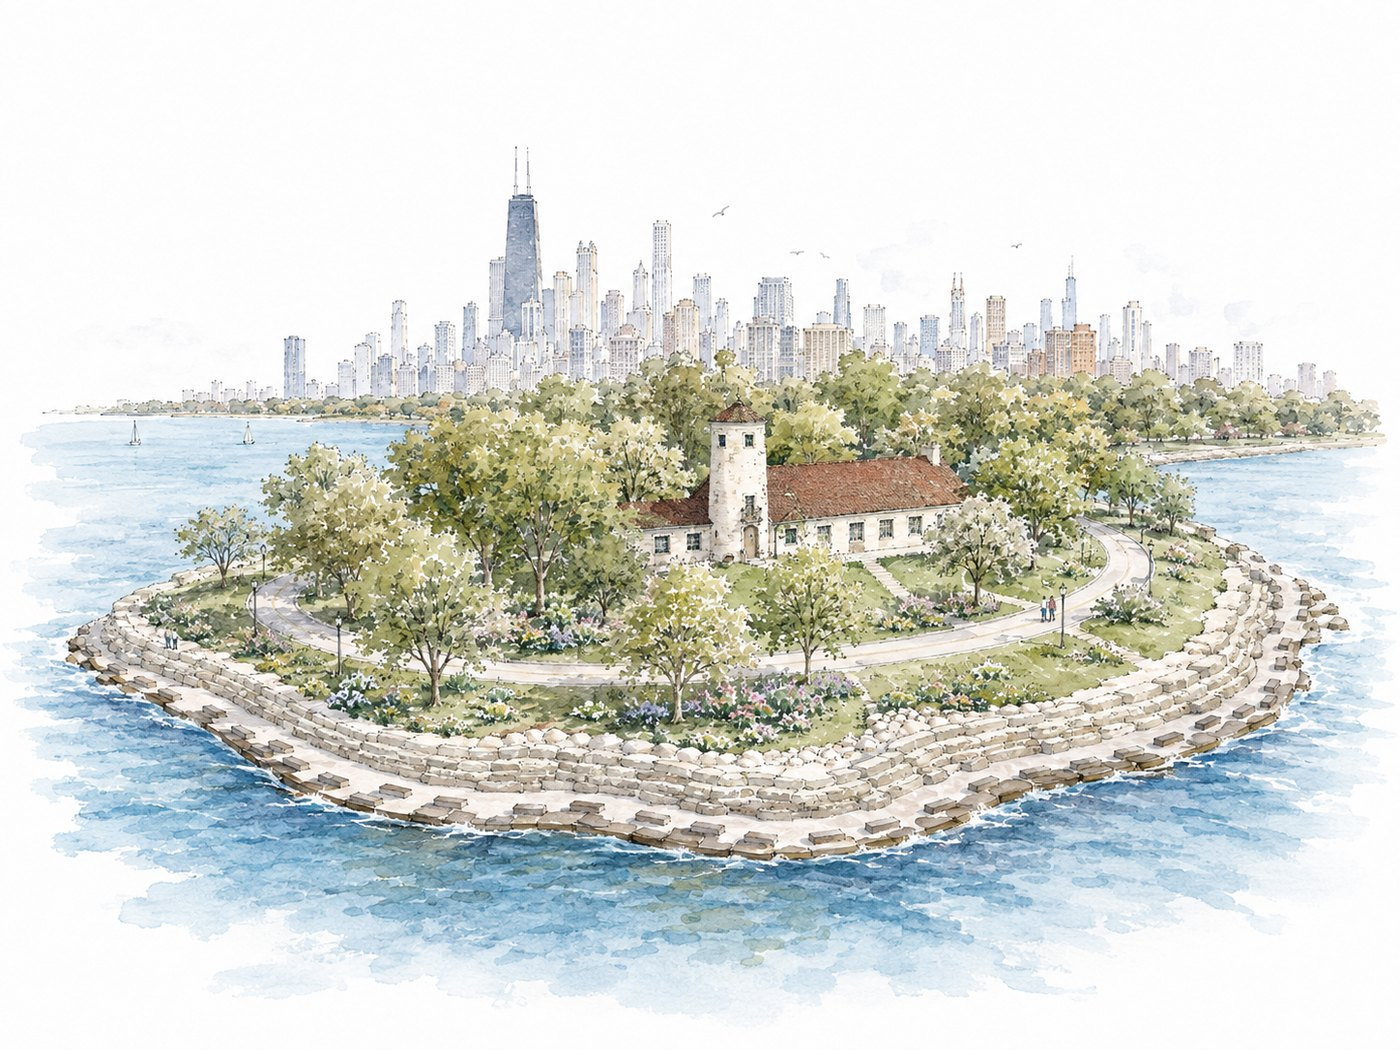
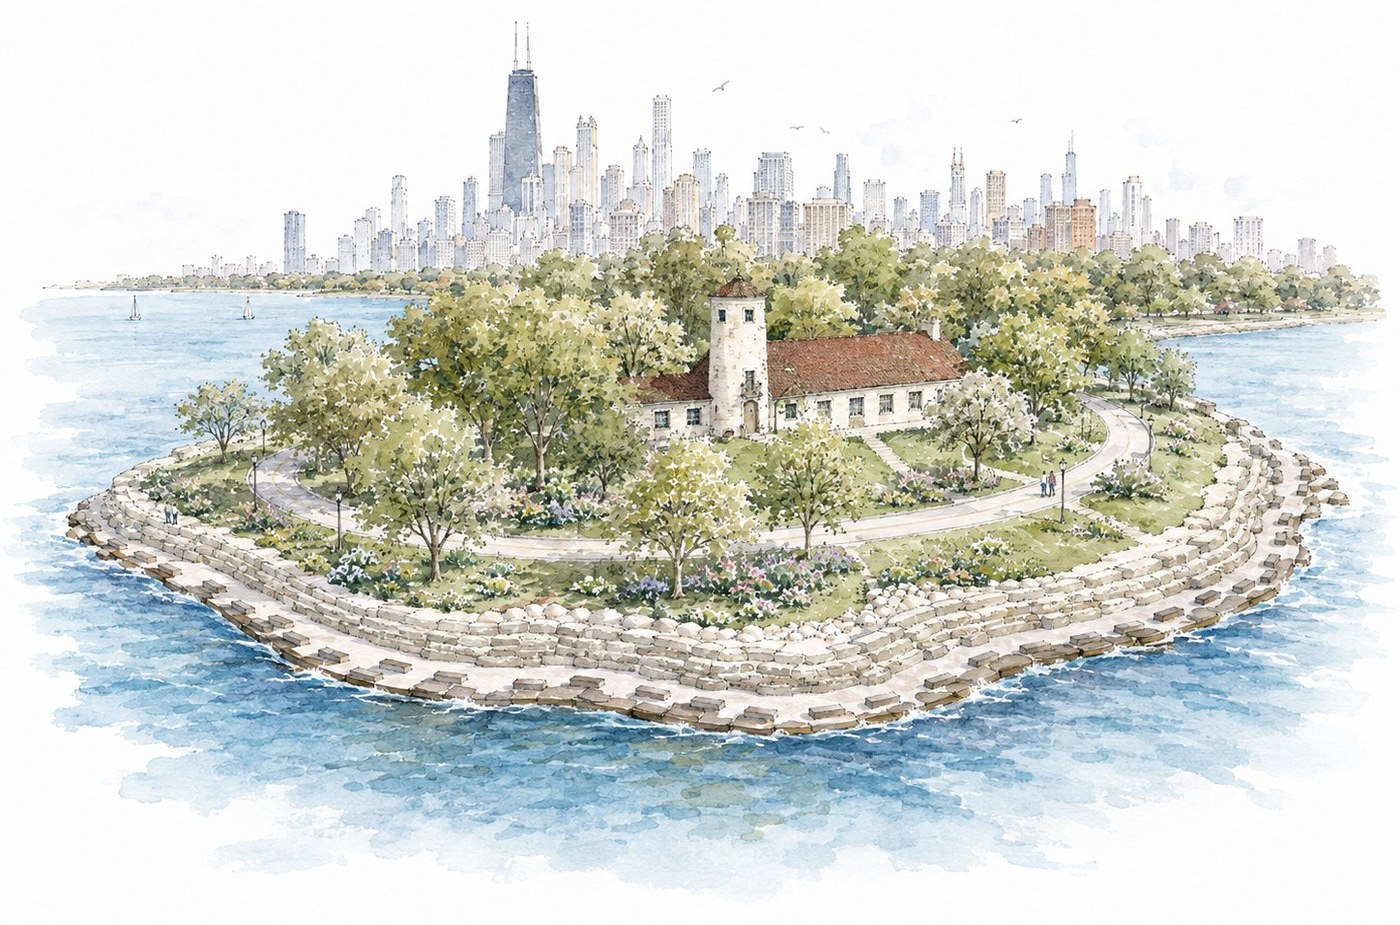
Venue art: crop empty top, feather top edge (envelope experiment reverted)

diff --git a/index.html b/index.html
@@ -9,19 +9,19 @@
   <meta property="og:description" content="Save the date. Promontory Point, Chicago. Find your invitation and RSVP." />
   <meta property="og:type" content="website" />
 
-  <link rel="icon" type="image/png" href="assets/favicon.png?v=102" />
+  <link rel="icon" type="image/png" href="assets/favicon.png?v=107" />
 
   <link rel="preconnect" href="https://fonts.googleapis.com" />
   <link rel="preconnect" href="https://fonts.gstatic.com" crossorigin />
   <link href="https://fonts.googleapis.com/css2?family=Quicksand:wght@300;400;500;600&display=swap" rel="stylesheet" />
 
-  <link rel="stylesheet" href="css/site.css?v=102" />
+  <link rel="stylesheet" href="css/site.css?v=107" />
 
   <script>function photoMissing(img){var b=img.closest('[data-photo]');if(b)b.classList.add('photo--missing');}</script>
-  <script defer src="js/config.js?v=102"></script>
+  <script defer src="js/config.js?v=107"></script>
   <script defer src="https://cdn.jsdelivr.net/npm/@supabase/supabase-js@2"></script>
-  <script defer src="js/site.js?v=102"></script>
-  <script defer src="js/rsvp.js?v=102"></script>
+  <script defer src="js/site.js?v=107"></script>
+  <script defer src="js/rsvp.js?v=107"></script>
 </head>
 <body>
 
@@ -60,7 +60,7 @@
         <span class="hero__amp">&amp;</span>
         <span class="hero__name">Ana</span>
       </h1>
-      <div class="hero__rule" data-enter><span class="ornament--set ornament--set-hero" aria-hidden="true"><i></i><img class="ornament__pug" src="assets/photos/pug-icon.png?v=102" alt="" /><i></i></span></div>
+      <div class="hero__rule" data-enter><span class="ornament--set ornament--set-hero" aria-hidden="true"><i></i><img class="ornament__pug" src="assets/photos/pug-icon.png?v=107" alt="" /><i></i></span></div>
       <p class="hero__date" data-enter>Friday, April 23, 2027</p>
       <p class="hero__place" data-enter>Promontory Point &#183; Chicago</p>
       <div class="countdown" id="countdown" data-enter aria-label="Countdown to the wedding">
@@ -76,7 +76,7 @@
     </div>
 
     <figure class="hero__art">
-      <img data-plx="0.05" data-plx-top src="assets/photos/hero-illustration.jpg?v=102" alt="Watercolor of Austin and Ana kissing beneath the northern lights" />
+      <img data-plx="0.05" data-plx-top src="assets/photos/hero-illustration.jpg?v=107" alt="Watercolor of Austin and Ana kissing beneath the northern lights" />
     </figure>
 
 
@@ -160,7 +160,7 @@
       <ol class="loveline" aria-label="Our story so far">
         <li><span class="loveline__date">Jan 2023</span><i class="loveline__dot"></i><span class="loveline__label">Met</span></li>
         <li><span class="loveline__date">Mar 2023</span><i class="loveline__dot"></i><span class="loveline__label">Dating</span></li>
-        <li><span class="loveline__date">Jun 2024</span><i class="loveline__dot loveline__dot--pug"><img src="assets/photos/pug-icon.png?v=102" alt="Bobby the pug" /></i><span class="loveline__label">Adopted by Bobby</span></li>
+        <li><span class="loveline__date">Jun 2024</span><i class="loveline__dot loveline__dot--pug"><img src="assets/photos/pug-icon.png?v=107" alt="Bobby the pug" /></i><span class="loveline__label">Adopted by Bobby</span></li>
         <li><span class="loveline__date">Sep 2025</span><i class="loveline__dot"></i><span class="loveline__label">Moved in together</span></li>
         <li><span class="loveline__date">Jan 2026</span><i class="loveline__dot"></i><span class="loveline__label">Engaged</span></li>
         <li><span class="loveline__date">Apr 2027</span><i class="loveline__dot loveline__dot--wed"></i><span class="loveline__label">Married</span></li>
@@ -168,13 +168,13 @@
     </div>
 
     <figure class="story__art story__art--img">
-      <img data-plx="0.07" src="assets/photos/story-illustration.jpg?v=102" alt="Watercolor illustration of Austin and Ana on the lakeshore" loading="lazy" />
+      <img data-plx="0.07" src="assets/photos/story-illustration.jpg?v=107" alt="Watercolor illustration of Austin and Ana on the lakeshore" loading="lazy" />
     </figure>
     <figure class="story__art story__art--video">
-      <video id="storyVideo" data-plx="0.07" poster="assets/photos/story-illustration.jpg?v=102"
+      <video id="storyVideo" data-plx="0.07" poster="assets/photos/story-illustration.jpg?v=107"
         muted loop playsinline preload="metadata"
         aria-label="Animated watercolor of Austin and Ana on the lakeshore">
-        <source src="assets/video/story.mp4?v=102" type="video/mp4" />
+        <source src="assets/video/story.mp4?v=107" type="video/mp4" />
       </video>
     </figure>
 
@@ -186,7 +186,7 @@
       <header class="section__head" data-reveal>
         <p class="section__label">April 23, 2027</p>
         <h2 class="section__title">The Day</h2>
-        <span class="ornament ornament--set" aria-hidden="true"><i></i><img class="ornament__pug" src="assets/photos/pug-icon.png?v=102" alt="" /><i></i></span>
+        <span class="ornament ornament--set" aria-hidden="true"><i></i><img class="ornament__pug" src="assets/photos/pug-icon.png?v=107" alt="" /><i></i></span>
       </header>
             <p class="day__note day__note--pto" data-reveal>It's a Friday. Put in for the day off now - we need your full attention.</p>
       <div class="timeline" id="timeline">
@@ -232,10 +232,10 @@
       <header class="section__head" data-reveal>
         <p class="section__label">Where</p>
         <h2 class="section__title">Promontory Point</h2>
-        <span class="ornament ornament--set" aria-hidden="true"><i></i><img class="ornament__pug" src="assets/photos/pug-icon.png?v=102" alt="" /><i></i></span>
+        <span class="ornament ornament--set" aria-hidden="true"><i></i><img class="ornament__pug" src="assets/photos/pug-icon.png?v=107" alt="" /><i></i></span>
       </header>
       <figure class="venue__art" data-reveal>
-        <img data-plx="0.05" src="assets/photos/venue-illustration.jpg?v=102" alt="Watercolor illustration of Promontory Point with the Chicago skyline behind it" loading="lazy" />
+        <img data-plx="0.05" src="assets/photos/venue-illustration.jpg?v=107" alt="Watercolor illustration of Promontory Point with the Chicago skyline behind it" loading="lazy" />
       </figure>
       <div class="venue__grid">
         <div class="venue__info" data-reveal>
@@ -265,7 +265,7 @@
       <header class="section__head" data-reveal>
         <p class="section__label">The palette</p>
         <h2 class="section__title">Colors of the Day</h2>
-        <span class="ornament ornament--set" aria-hidden="true"><i></i><img class="ornament__pug" src="assets/photos/pug-icon.png?v=102" alt="" /><i></i></span>
+        <span class="ornament ornament--set" aria-hidden="true"><i></i><img class="ornament__pug" src="assets/photos/pug-icon.png?v=107" alt="" /><i></i></span>
       </header>
       <div class="swatches" data-reveal>
         <div class="swatch"><i style="background:#4E5F82"></i><span>Slate</span></div>
@@ -283,13 +283,13 @@
       <header class="section__head" data-reveal>
         <p class="section__label">A few favorites</p>
         <h2 class="section__title">Gallery</h2>
-        <span class="ornament ornament--set" aria-hidden="true"><i></i><img class="ornament__pug" src="assets/photos/pug-icon.png?v=102" alt="" /><i></i></span>
+        <span class="ornament ornament--set" aria-hidden="true"><i></i><img class="ornament__pug" src="assets/photos/pug-icon.png?v=107" alt="" /><i></i></span>
       </header>
       <div class="gallery__grid gallery__grid--four">
-        <figure class="photo photo--real" data-reveal><img src="assets/photos/gallery-1.jpg?v=102" alt="Austin lifting Ana, both laughing, on the shoreline grass at golden hour" loading="lazy" /></figure>
-        <figure class="photo photo--real" data-reveal><img src="assets/photos/gallery-2.jpg?v=102" alt="Austin twirling Ana in the dune grass by the water" loading="lazy" /></figure>
-        <figure class="photo photo--real" data-reveal><img src="assets/photos/gallery-3.jpg?v=102" alt="Austin and Ana dancing close and laughing in golden light" loading="lazy" /></figure>
-        <figure class="photo photo--real" data-reveal><img src="assets/photos/gallery-4.jpg?v=102" alt="Austin and Ana kissing into the setting sun" loading="lazy" /></figure>
+        <figure class="photo photo--real" data-reveal><img src="assets/photos/gallery-1.jpg?v=107" alt="Austin lifting Ana, both laughing, on the shoreline grass at golden hour" loading="lazy" /></figure>
+        <figure class="photo photo--real" data-reveal><img src="assets/photos/gallery-2.jpg?v=107" alt="Austin twirling Ana in the dune grass by the water" loading="lazy" /></figure>
+        <figure class="photo photo--real" data-reveal><img src="assets/photos/gallery-3.jpg?v=107" alt="Austin and Ana dancing close and laughing in golden light" loading="lazy" /></figure>
+        <figure class="photo photo--real" data-reveal><img src="assets/photos/gallery-4.jpg?v=107" alt="Austin and Ana kissing into the setting sun" loading="lazy" /></figure>
       
     </div>
   </section>
@@ -300,7 +300,7 @@
       <header class="section__head" data-reveal>
         <p class="section__label">Good to know</p>
         <h2 class="section__title">Questions</h2>
-        <span class="ornament ornament--set" aria-hidden="true"><i></i><img class="ornament__pug" src="assets/photos/pug-icon.png?v=102" alt="" /><i></i></span>
+        <span class="ornament ornament--set" aria-hidden="true"><i></i><img class="ornament__pug" src="assets/photos/pug-icon.png?v=107" alt="" /><i></i></span>
       </header>
       <div class="faq__list" data-reveal>
         <details class="faq__item"><summary>When should I RSVP?</summary><p>Ideally, the moment you finish reading this sentence. Search your name below and your whole crew appears together. And if your plans change later, tell us ASAP - we would rather redo the seating chart than pay for a ghost's dinner.</p></details>
@@ -320,7 +320,7 @@
       <header class="section__head" data-reveal>
         <p class="section__label">We hope you'll join us</p>
         <h2 class="section__title">RSVP</h2>
-        <span class="ornament ornament--set" aria-hidden="true"><i></i><img class="ornament__pug" src="assets/photos/pug-icon.png?v=102" alt="" /><i></i></span>
+        <span class="ornament ornament--set" aria-hidden="true"><i></i><img class="ornament__pug" src="assets/photos/pug-icon.png?v=107" alt="" /><i></i></span>
         <p class="rsvp__lead">Search your name - or your partner's - to find your invitation. Add your email and phone so reminders and updates reach you.</p>
       </header>
       <div class="rsvp__card" data-reveal>
@@ -340,7 +340,7 @@
 
   <!-- ============ FOOTER ============ -->
   <footer class="footer">
-    <span class="ornament ornament--set ornament--footer" aria-hidden="true"><i></i><img class="ornament__pug" src="assets/photos/pug-icon.png?v=102" alt="" /><i></i></span>
+    <span class="ornament ornament--set ornament--footer" aria-hidden="true"><i></i><img class="ornament__pug" src="assets/photos/pug-icon.png?v=107" alt="" /><i></i></span>
     <p class="footer__names">Austin <span>&amp;</span> Ana</p>
     <p class="footer__date">April 23, 2027 · Promontory Point, Chicago</p>
     <p class="footer__thanks">We can't wait to celebrate with you.</p>

diff --git a/css/site.css b/css/site.css
@@ -1766,3 +1766,12 @@ body.nav-open .nav__links .nav__cta{background:transparent !important}
     mask-image:linear-gradient(180deg,transparent 0,#000 90px);
   }
 }
+
+
+/* venue art: soft top edge, no hard line against the white section */
+.venue__art img{
+  -webkit-mask-image:linear-gradient(180deg,transparent 0,#000 70px);
+  mask-image:linear-gradient(180deg,transparent 0,#000 70px);
+}
+
+
